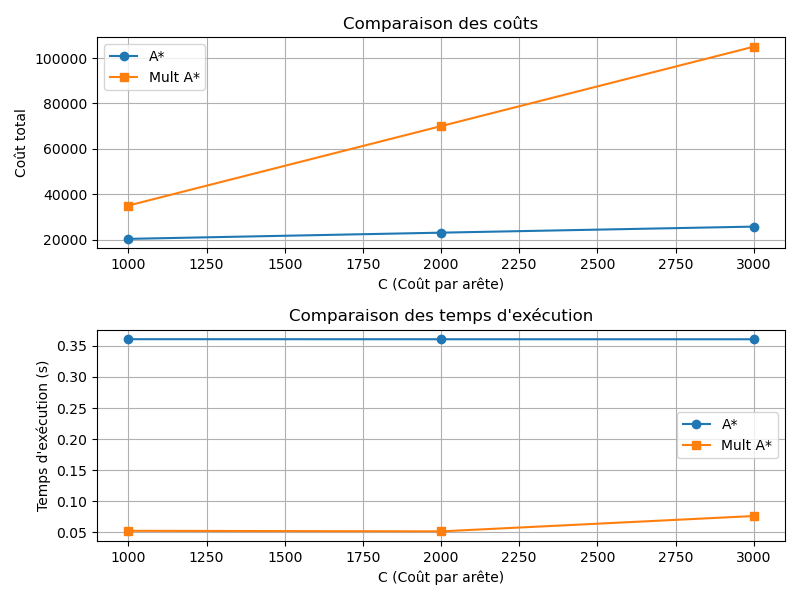
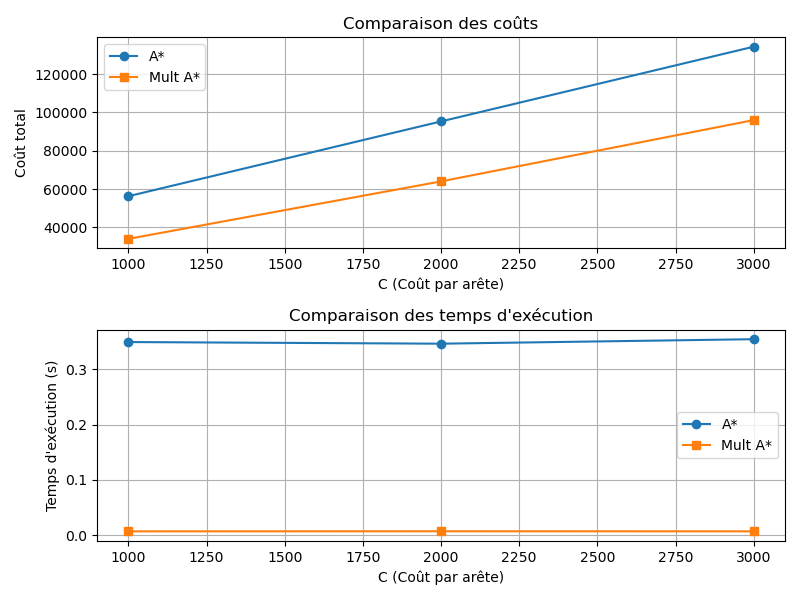
comparaison_graphs moyenne sur pls exécutions

diff --git a/Python_files/comparaison_graphs.py b/Python_files/comparaison_graphs.py
@@ -1,5 +1,6 @@
 import time
 import matplotlib.pyplot as plt
+import numpy as np
 from create_random_graphes import create_airport_graph, create_random_subgraph, generate_random_pairs
 from visualisation import visualize_graph_on_globe
 from A_star import Astar, precompute_shortest_paths
@@ -19,51 +20,76 @@ m_values = list(map(int, input("Liste des nombres d'arêtes (séparés par espac
 j = int(input("Nombre de chemins requis (paires de destinations) = "))
 C_values = list(map(int, input("Liste des différents coûts pour une arête supplémentaire : ").split()))
 
-astar_times_nodes = []
-multi_astar_times_nodes = []
-astar_costs_nodes = []
-multi_astar_costs_nodes = []
-astar_times_edges = []
-multi_astar_times_edges = []
-astar_costs_edges = []
-multi_astar_costs_edges = []
+
+num_runs = 5  # Nombre d'exécutions pour la moyenne
+
+astar_means_times_nodes = []
+multi_astar_means_times_nodes = []
+astar_means_costs_nodes = []
+multi_astar_means_costs_nodes = []
+astar_means_times_edges = []
+multi_astar_means_times_edges = []
+astar_means_costs_edges = []
+multi_astar_means_costs_edges = []
 
 for n, m in zip(n_values, m_values):
-    print(f"\n### Test avec n = {n}, m = {m} ###")
 
-    random_subgraph = create_random_subgraph(airport_graph, n, m)
-    destination_pairs = generate_random_pairs(random_subgraph, j)
+    astar_times_nodes = []
+    multi_astar_times_nodes = []
+    astar_costs_nodes = []
+    multi_astar_costs_nodes = []
+    astar_times_edges = []
+    multi_astar_times_edges = []
+    astar_costs_edges = []
+    multi_astar_costs_edges = []
 
-    start_time = time.time()
-    G_prime, edges_removed, best_cost = Astar(random_subgraph, destination_pairs, C_values[0])
-    elapsed_time = time.time() - start_time
+    for _ in range(num_runs):
+        print(f"\n### Test avec n = {n}, m = {m} ###")
 
-    print(f"Astar - Coût: {best_cost}, Temps: {elapsed_time:.4f}s")
+        random_subgraph = create_random_subgraph(airport_graph, n, m)
+        destination_pairs = generate_random_pairs(random_subgraph, j)
 
-    astar_times_nodes.append(elapsed_time)
-    astar_costs_nodes.append(best_cost)
-    astar_times_edges.append(elapsed_time)
-    astar_costs_edges.append(best_cost)
+        start_time = time.time()
+        G_prime, edges_removed, best_cost = Astar(random_subgraph, destination_pairs, C_values[0])
+        elapsed_time = time.time() - start_time
 
-    start_time = time.time()
-    G_mult, rsubgraph = approx_multiple_astar(random_subgraph, destination_pairs, C_values[0], iterations=30)
-    elapsed_time = time.time() - start_time 
-    multi_astar_cost = sum([nx.shortest_path_length(G_mult, start, end) for start, end in destination_pairs])/len(destination_pairs) + C_values[0] * len(G_mult.edges())
+        print(f"Astar - Coût: {best_cost}, Temps: {elapsed_time:.4f}s")
 
-    print(f"Mult Astar - Coût: {multi_astar_cost}, Temps: {elapsed_time:.4f}s")
+        astar_times_nodes.append(elapsed_time)
+        astar_costs_nodes.append(best_cost)
+        astar_times_edges.append(elapsed_time)
+        astar_costs_edges.append(best_cost)
 
-    multi_astar_times_nodes.append(elapsed_time)
-    multi_astar_costs_nodes.append(multi_astar_cost)
-    multi_astar_times_edges.append(elapsed_time)
-    multi_astar_costs_edges.append(multi_astar_cost)
+        start_time = time.time()
+        G_mult, rsubgraph = approx_multiple_astar(random_subgraph, destination_pairs, C_values[0], iterations=30)
+        elapsed_time = time.time() - start_time 
+        multi_astar_cost = sum([nx.shortest_path_length(G_mult, start, end) for start, end in destination_pairs])/len(destination_pairs) + C_values[0] * len(G_mult.edges())
+
+        print(f"Mult Astar - Coût: {multi_astar_cost}, Temps: {elapsed_time:.4f}s")
+
+        multi_astar_times_nodes.append(elapsed_time)
+        multi_astar_costs_nodes.append(multi_astar_cost)
+        multi_astar_times_edges.append(elapsed_time)
+        multi_astar_costs_edges.append(multi_astar_cost)
+
+    # Calcul des moyennes
+    astar_means_times_nodes.append(np.mean(astar_times_nodes))
+    astar_means_times_edges.append(np.mean(astar_times_edges))
+    multi_astar_means_times_nodes.append(np.mean(multi_astar_times_nodes))
+    multi_astar_means_times_edges.append(np.mean(multi_astar_times_edges))
+    astar_means_costs_nodes.append(np.mean(astar_costs_nodes))
+    astar_means_costs_edges.append(np.mean(astar_costs_edges))
+    multi_astar_means_costs_nodes.append(np.mean(multi_astar_costs_nodes))
+    multi_astar_means_costs_edges.append(np.mean(multi_astar_costs_edges))
+
 
 # Tracer les résultats
 plt.figure(figsize=(8, 6))
 
 # Graphe du coût en fonction du nombre de nœuds
 plt.subplot(2, 2, 1)
-plt.plot(n_values, astar_costs_nodes, 's-', label="Coût total A*")
-plt.plot(n_values, multi_astar_costs_nodes, 'o-', label="Coût total Mult A*")
+plt.plot(n_values, astar_means_costs_nodes, 's-', label="Coût total A*")
+plt.plot(n_values, multi_astar_means_costs_nodes, 'o-', label="Coût total Mult A*")
 plt.xlabel("Nombre de nœuds")
 plt.ylabel("Coût total")
 plt.title("Coût en fonction du nombre de nœuds")
@@ -72,8 +98,8 @@ plt.grid()
 
 # Graphe du temps d'exécution en fonction du nombre de nœuds
 plt.subplot(2, 2, 2)
-plt.plot(n_values, astar_times_nodes, 'o-', label="Temps d'exécution A*")
-plt.plot(n_values, multi_astar_times_nodes, 's-', label="Temps d'exécution Mult A*")
+plt.plot(n_values, astar_means_times_nodes, 'o-', label="Temps d'exécution A*")
+plt.plot(n_values, multi_astar_means_times_nodes, 's-', label="Temps d'exécution Mult A*")
 plt.xlabel("Nombre de nœuds")
 plt.ylabel("Temps (s)")
 plt.title("Temps d'exécution en fonction du nombre de nœuds")
@@ -82,8 +108,8 @@ plt.grid()
 
 # Graphe du coût en fonction du nombre d'arêtes
 plt.subplot(2, 2, 3)
-plt.plot(m_values, astar_costs_edges, 's-', label="Coût total A*")
-plt.plot(m_values, multi_astar_costs_edges, 'o-', label="Coût total Mult A*")
+plt.plot(m_values, astar_means_costs_edges, 's-', label="Coût total A*")
+plt.plot(m_values, multi_astar_means_costs_edges, 'o-', label="Coût total Mult A*")
 plt.xlabel("Nombre d'arêtes")
 plt.ylabel("Coût total")
 plt.title("Coût en fonction du nombre d'arêtes")
@@ -92,8 +118,8 @@ plt.grid()
 
 # Graphe du temps d'exécution en fonction du nombre d'arêtes
 plt.subplot(2, 2, 4)
-plt.plot(m_values, astar_times_edges, 'o-', label="Temps d'exécution A*")
-plt.plot(m_values, multi_astar_times_edges, 's-', label="Temps d'exécution Mult A*")
+plt.plot(m_values, astar_means_times_edges, 'o-', label="Temps d'exécution A*")
+plt.plot(m_values, multi_astar_means_times_edges, 's-', label="Temps d'exécution Mult A*")
 plt.xlabel("Nombre d'arêtes")
 plt.ylabel("Temps (s)")
 plt.title("Temps d'exécution en fonction du nombre d'arêtes")
